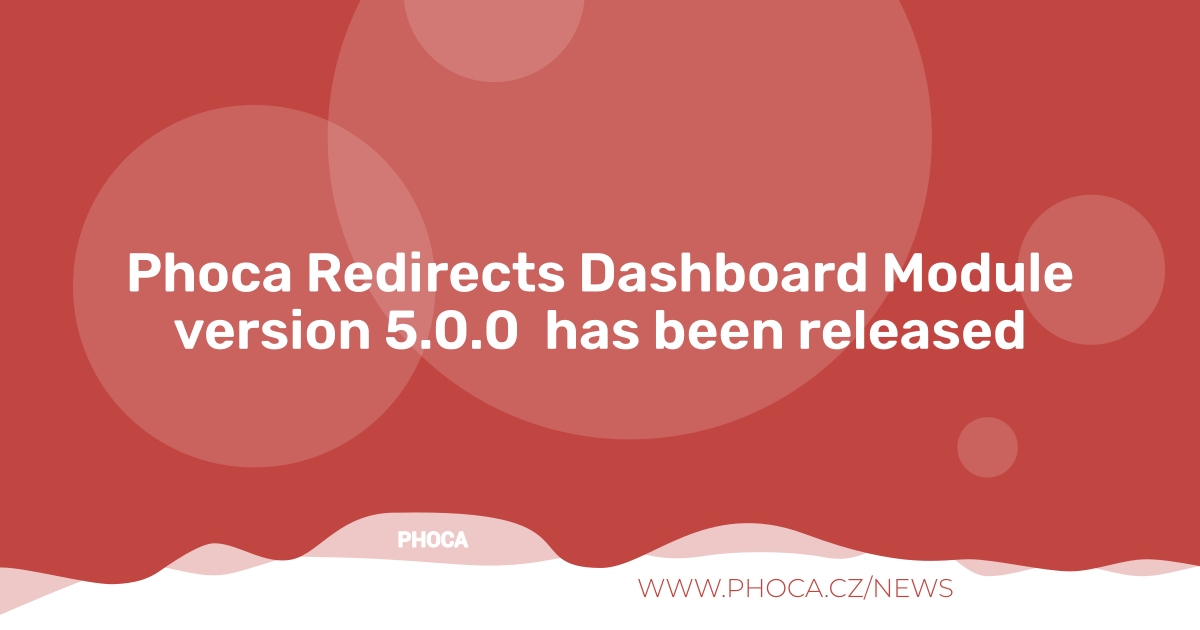
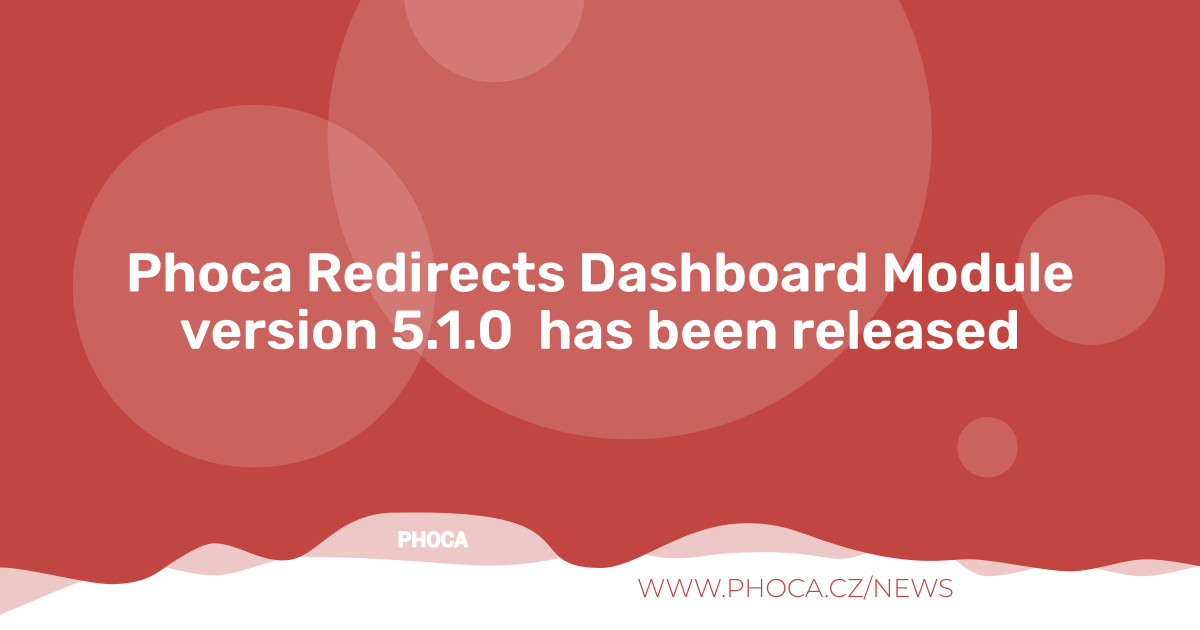
5.1.0

Changed region(s): [[0.1233, 0.4825, 0.8633, 0.573]]

diff --git a/media/css/main.css b/media/css/main.css
@@ -42,7 +42,8 @@
 }
 
 body:has(.phocaRedirectsDashboard.enabled.collect.alarm),
-body:has(.phocaRedirectsDashboard.enabled.collect.alarm) .sidebar-wrapper {
+body:has(.phocaRedirectsDashboard.enabled.collect.alarm) .sidebar-wrapper,
+body:has(.phocaRedirectsDashboard.enabled.collect.alarm) .container-main{
 	background: #de350b !important;
 	color: #fff !important;
 }

diff --git a/README.MD b/README.MD
@@ -50,7 +50,7 @@ Phoca Redirects Dashboard Module - displays important information about redirect
 
 ## Version (Joomla! 5.x)
 
-5.0.0
+5.1.0
 
 
 
